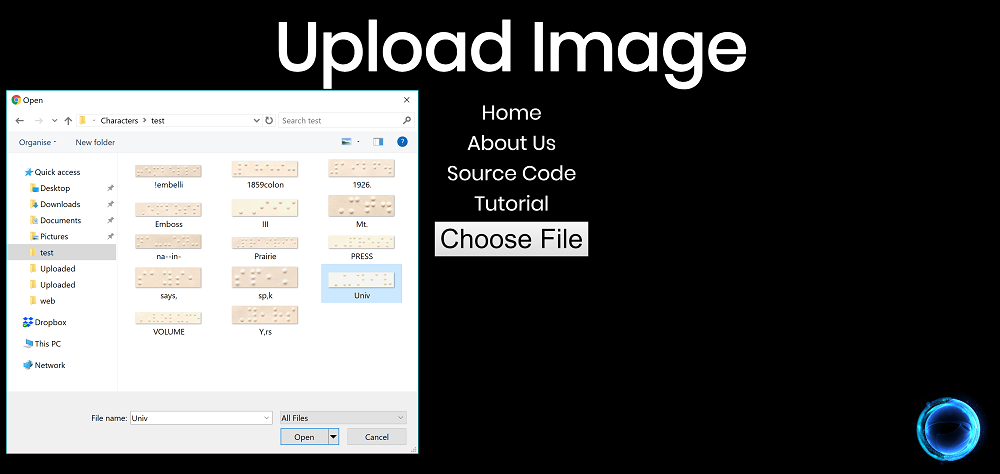
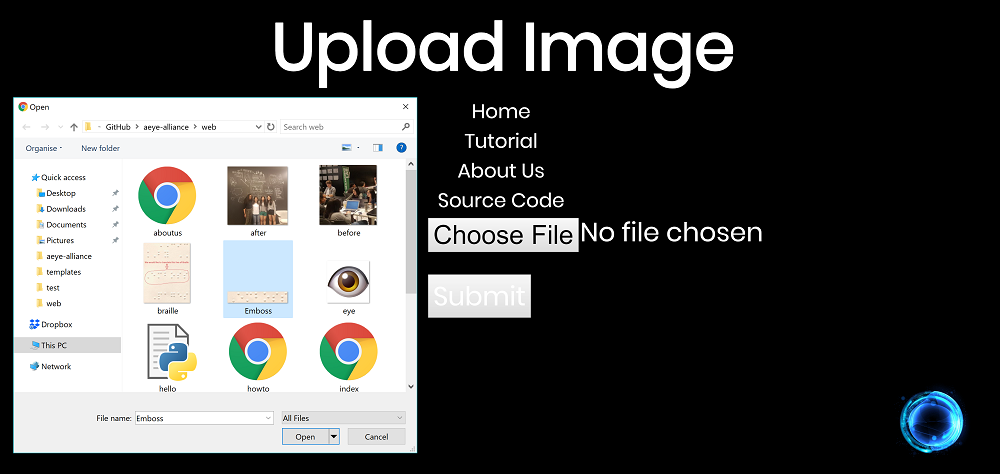
flask stuff

diff --git a/templates/tutorial.html b/templates/tutorial.html
@@ -1,0 +1,175 @@
+<!DOCTYPE html>
+<html>
+<head>
+	<link href="https://fonts.googleapis.com/css?family=Poppins" rel="stylesheet">
+	<link rel="icon" type="image/png" href="https://upload.wikimedia.org/wikipedia/commons/thumb/d/d8/Emojione_1F441.svg/2000px-Emojione_1F441.svg.png">
+	<title>Tutorial</title>
+	<style>
+	body {
+		background-color: black;
+		font-family: 'Poppins', sans-serif;
+		background-image: url("https://cdn.dribbble.com/users/32512/screenshots/3025506/artificial_intelligence_product_rokid.gif");
+		background-repeat: no-repeat;
+		background-position: bottom right;
+        background-attachment: fixed;
+		padding: 100px;
+		background-size: 15%;
+        margin-top: 0;
+        padding: 0;
+        text-align: center;
+		color: white;
+	}
+
+	nav {
+		font-size: 40px;
+        padding: 0;
+        margin-top: 0;
+	}
+
+	h1 {
+        text-align: center;
+        color: white;
+        font-size: 100px;
+        margin-bottom: 0;
+        margin-top: 0;
+    }
+
+    ol {
+    	color: white;
+    	text-align: left;
+    }
+
+    .notes {
+    	color: white;
+    	text-align: left;
+    }
+
+	a {
+		color: white;
+		text-decoration: none;
+	}
+
+	a:hover {
+		color: blue;
+		transition: 0.3s;
+        /* transition: color 12s, font-size 12s; */
+        
+	}
+
+	.text {
+		font-size: 18px;
+	}
+
+	.bottom {
+		background-image: url("https://media.giphy.com/media/eMBLXzYg75zb2/giphy.gif");
+		background-position: center;
+		background-size: 30%;
+		height: 300px;
+		background-repeat: no-repeat;
+		background-position-y: 50px;
+	}
+
+/*	img {
+		border-color: white;
+		border-width: 10px; 
+		align-content: center;
+	}*/
+
+	img {
+    	display: block;
+    	margin-left: auto;
+    	margin-right: auto;
+    	width: 40%;
+	}
+
+/*	.center {
+		display: block;
+		margin-left: auto;
+		margin-right: auto;
+		width: 50%;
+	}*/
+
+	.instructions {
+		margin: auto;
+		width: 75%;
+		border: 3px solid blue;
+		padding: 10px;
+		text-align: center;
+		/*display: block;
+		margin-left: auto;
+		margin-right: auto;
+		width: 50%;*/
+	}
+
+/*	.center {
+    margin: auto;
+    width: 50%;
+    border: 3px solid green;
+    padding: 10px;
+}*/
+
+	.numbers {
+		font-size: 25px;
+	}
+
+</style>
+</head>
+<body>
+	<h1>Tutorial</h1>
+		<nav> 
+			<a href = "/"> Home </a> </br>
+			<a href = "/aboutus"> About Us </a> </br>
+			<a href = "https://github.com/HelenG123/aeye-alliance"> Source Code </a> </br>
+			<a href = "/upload"> Upload Image</a>
+		</nav> 
+<!-- 
+	<p>This page is a tutorial that shows you how to use our Braille-to-text converter.</p> -->
+
+	<div class="instructions">
+		<ol>
+			<li class="numbers">Choose or take an image of Braille that you would like to translate into English</li>
+			<table class="image1">
+			<caption align="bottom">A sample picture of Braille taken from a library book</caption>
+			<tr><td><img src="{{ url_for('static', filename='braille.jpg') }}" alt="A picture of Braille" class="center"></td></tr>
+			</table>
+			<p>Make sure to save your image on your computer so that you can upload it later.</p>
+			
+			<li class="numbers">Crop your image</li>
+			<table class="image2">
+			<caption align="bottom">A sample picture of good cropping</caption>
+			<tr><td><img src="{{ url_for('static', filename='Emboss.png') }}" alt="A cropped image of a line of Braille" class="center"></td></tr>
+			</table>
+			<p>Our braille-to-text converter uses a ratio to segment and translate each character, so it is essential that you comply with the following cropping instructions in order to get a good translation. Crop your image so that there is about as much padding as the image above (refer to the red line showing the padding). The size of the padding should be about 1/3 the amount of space between two Braille characters.</p>
+
+			<li class="numbers">Go to the 'Upload Image' page and upload your image by clicking the 'Choose File' button</li>
+			<table class="image3">
+			<caption align="bottom">Choosing a file to upload</caption>
+			<tr><td><img src="{{ url_for('static', filename='upload.jpg') }}" alt="Uploading an image" class="center"></td></tr>
+			</table>
+
+			<li class="numbers">Click on the 'Submit' button and you should see the translation below!</li>
+			<table class="image4">
+			<caption align="bottom">Submitting and getting an output</caption>
+			<tr><td><img src="{{ url_for('static', filename='submit.jpg') }}" alt="Submitting the image" class="center"></td></tr>
+			</table>
+		</ol>
+
+	<!-- <div class="notes"> -->
+		<h3>NOTE:</h3>
+		<ul>
+			<li>Our Braille-to-text-converter only translates English Grade 1 Braille</li>
+			<li>So far we can only translate one line of Braille at a time. If you would like to translate multiple lines of Braille, please upload each line separately.</li>
+			<li>We trained our model only on embossed Braille so pictures of handwritten Braille might not translate well</li>
+			<li>Characters that our model can recognize:</li>
+			<!-- image of all characters our Braille model can recognize -->
+		</ul>
+	</div>
+
+	<div class="bottom"> </br>
+		<div class = "text"> <span> Brought to you by AEyeAlliance</span> </div>
+		<!-- <ul>
+			<li><a href = "https://github.com/HelenG123/ai-alliance"> Source code </a> </li>
+		</ul> -->
+	</div>
+</body>
+</html>

diff --git a/templates/aboutus.html b/templates/aboutus.html
@@ -20,8 +20,8 @@
 			color: white;
 		}
 
-		.nav {
-			font-size: 30px;
+		nav {
+			font-size: 40px;
 	        padding: 0;
 	        margin-top: 0;
 		}
@@ -74,29 +74,31 @@
 
 	<h1> About Us </h1>
 	
-		<ul class = "nav">
-			<li><a href = "index.html"> Home </a></li>
-			<!-- <li><a href = "aboutus.html"> About Us </a></li> -->
-			<li><a href = "https://github.com/HelenG123/aeye-alliance"> Source Code </a></li>
-			<li><a href = "tutorial.html"> Tutorial </a></li>
-			<li><a href = "upload.html"> Upload Image </a></li>
-		</ul>
+		 <nav> 
+            <a href = "/"> Home </a> </br>
+            <!-- <a href = "/aboutus"> About Us </a> </br> -->
+            <a href = "/tutorial"> Tutorial </a> </br>
+            <a href = "https://github.com/HelenG123/aeye-alliance"> Source Code </a> </br>
+            <a href = "/upload"> Upload Image </a>
+        </nav> 
+
 		
 	<div class="about">
 		<p>We are a group of four undergraduate female students in computer science who are currently partaking in the AI4SocialGood Lab at McGill University. Throughout the first 2 weeks of the lab, we learned about AI and machine learning techniques and are now applying this knowledge to solve a social problem. Based on personal experience, we felt that there weren't enough technology out there to help non-blind people interact and communicate with blind people. So we decided to create a braille-to-text converter that is able to take an image of a line (a word, sentence, or a character) of Braille, recognize it, and output its English counterpart. Using data acquired from rare book collections and the internet, we contructed our own dataset consisting of multiple sets of the Braille alphabet, numbers, and symbols. We then trained an AI that will recognize images of individual Braille characters and translate them into English characters. Using a specific ratio and cropping function, we are able to take an image of a sentence/line of Braille and segment each Braille character out individually. We feed each of these characters into our model and then concatenate the output characters together into an English sentence or word. The main objective of this project is to bring awareness of Braille and to bridge the gap of communication between blind and non-blind people.</p> 		
 	</div>
 
 	<div class="journey">
+		<!-- "{{ url_for('static', filename='img1.png') }}"-->
 		<h3>Catch a glimpse of our journey below...</h3>
 		<table class="image1">
 		<caption align="bottom">Where it all began...</caption>
-		<tr><td><img src=before.jpg alt="Us at the hackathon" class="center"></td></tr>
+		<tr><td><img src="{{ url_for('static', filename='before.jpg') }}" alt="Us at the hackathon" class="center"></td></tr>
 		</table>
 		<p>Our braille-to-text-converter started off as a project for the AI4SocialGood Hackathon 2018 hosted at Desjardins Lab. Because we didn't have time to complete most of our goals for the project during the 24hrs duration of the hackathon, we decided to continue the project as our final project for the AI4SocialGood Lab that we are all participating in.</p>
 
 		<table class="image2">
 		<caption align="bottom">Us now...a little older and a little wiser!</caption>
-		<tr><td><img src=before.jpg alt="Us at the hackathon" class="center"></td></tr>
+		<tr><td><img src="{{ url_for('static', filename='after.jpg') }}" alt="Us at espace cdpq" class="center"></td></tr>
 		</table>
 		<p>We've been working hard on our project for the past 3 weeks! We were able to accomplish all of our goals (and even learnt English Grade 1 Braille along the way!) for the project and we hope this project will be of use at some point in your life, especially if someone you know is blind and uses Braille to read!</p>
 	</div>

diff --git a/web/tutorial.html b/web/tutorial.html
@@ -94,7 +94,7 @@
 			<!-- <li><a href = "tutorial.html"> Tutorial </a></li> -->
 			<li><a href = "upload.html"> Upload Image </a></li>
 	</ul>
-	<p>This page shows you how to use our Braille-to-text converter</p>
+	<p>This page shows you how to use our Braille-to-text converter.</p>
 
 	<div class="instructions">
 	<ol>
@@ -108,14 +108,14 @@
 		<li>Crop your image</li>
 		<table class="image2">
 		<caption align="bottom">A sample picture of good cropping</caption>
-		<tr><td><img src=Emboss.jpg alt="A cropped image of a line of Braille" class="center"></td></tr>
+		<tr><td><img src="Emboss.jpg" alt="A cropped image of a line of Braille" class="center"></td></tr>
 		</table>
 		<p>Our braille-to-text converter uses a ratio to segment and translate each character, so it is essential that you comply with the following cropping instructions in order to get a good translation. Crop your image so that there is about as much padding as the image above (refer to the red line showing the padding). The size of the padding should be about half of the amount of space between two Braille characters.</p>
 
 		<li>Go to the 'Upload Image' page and upload your image by clicking the 'Choose File' button</li>
 		<table class="image3">
 		<caption align="bottom">Choosing a file to upload</caption>
-		<tr><td><img src=upload.jpg alt="Uploading an image" class="center"></td></tr>
+		<tr><td><img src="upload.jpg" alt="Uploading an image" class="center"></td></tr>
 		</table>
 
 		<li>Click on the 'Submit' button and you should see the translation below!</li>

diff --git a/web/aboutus.html b/web/aboutus.html
@@ -87,17 +87,16 @@
 	</div>
 
 	<div class="journey">
-		<!-- "{{ url_for('static', filename='img1.png') }}"-->
 		<h2>Catch a glimpse of our journey below...</h2>
 		<table class="image1">
 		<caption align="bottom">Where it all began...</caption>
-		<tr><td><img src=before.jpg alt="Us at the hackathon" class="center"></td></tr>
+		<tr><td><img src="before.jpg" alt="Us at the hackathon" class="center"></td></tr>
 		</table>
 		<p>Our braille-to-text-converter started off as a project for the AI4SocialGood Hackathon 2018 hosted at Desjardins Lab. Because we didn't have time to complete most of our goals for the project during the 24hrs duration of the hackathon, we decided to continue the project as our final project for the AI4SocialGood Lab that we are all participating in.</p>
 
 		<table class="image2">
 		<caption align="bottom">Us now...a little older and a little wiser!</caption>
-		<tr><td><img src=after.jpg alt="Us at espace cdpq" class="center"></td></tr>
+		<tr><td><img src="after.jpg" alt="Us at espace cdpq" class="center"></td></tr>
 		</table>
 		<p>We've been working hard on our project for the past 3 weeks! We were able to accomplish all of our goals (and even learnt English Grade 1 Braille along the way!) for the project and we hope this project will be of use at some point in your life, especially if someone you know is blind and uses Braille to read!</p>
 	</div>

diff --git a/templates/upload.html b/templates/upload.html
@@ -47,7 +47,7 @@
             }
             
             nav {
-                font-size: 30px;
+                font-size: 40px;
                 padding: 0;
                 margin-top: 0;
             }
@@ -95,6 +95,7 @@
 
         <nav> 
             <a href = "/"> Home </a> </br>
+            <a href = "/tutorial"> Tutorial </a> </br>
             <a href = "/aboutus"> About Us </a> </br>
             <a href = "https://github.com/HelenG123/aeye-alliance"> Source Code </a> </br>
             <form method="post" action="/upload_results" name="submit" enctype="multipart/form-data">

diff --git a/templates/display.html b/templates/display.html
@@ -27,7 +27,7 @@
             }
 
             nav {
-                font-size: 30px;
+                font-size: 50px;
                 padding: 0;
                 margin-top: 0;
             }
@@ -51,6 +51,7 @@
 
         <nav> 
             <a href = "/"> Home </a> </br>
+            <a href = "/tutorial"> Tutorial </a> </br>
             <a href = "/aboutus"> About Us </a> </br>
             <a href = "https://github.com/HelenG123/aeye-alliance"> Source Code </a> </br>
             <a href = "/upload"> Upload Image</a>

diff --git a/templates/home.html b/templates/home.html
@@ -3,6 +3,7 @@
 {% block body %}
 	<nav> 
 		<a href = "/"> Home </a> </br>
+		<a href = "/tutorial"> Tutorial </a> </br>
 		<a href = "/aboutus"> About Us </a> </br>
 		<a href = "https://github.com/HelenG123/aeye-alliance"> Source Code </a> </br>
 		<a href = "/upload"> Upload Image </a>
